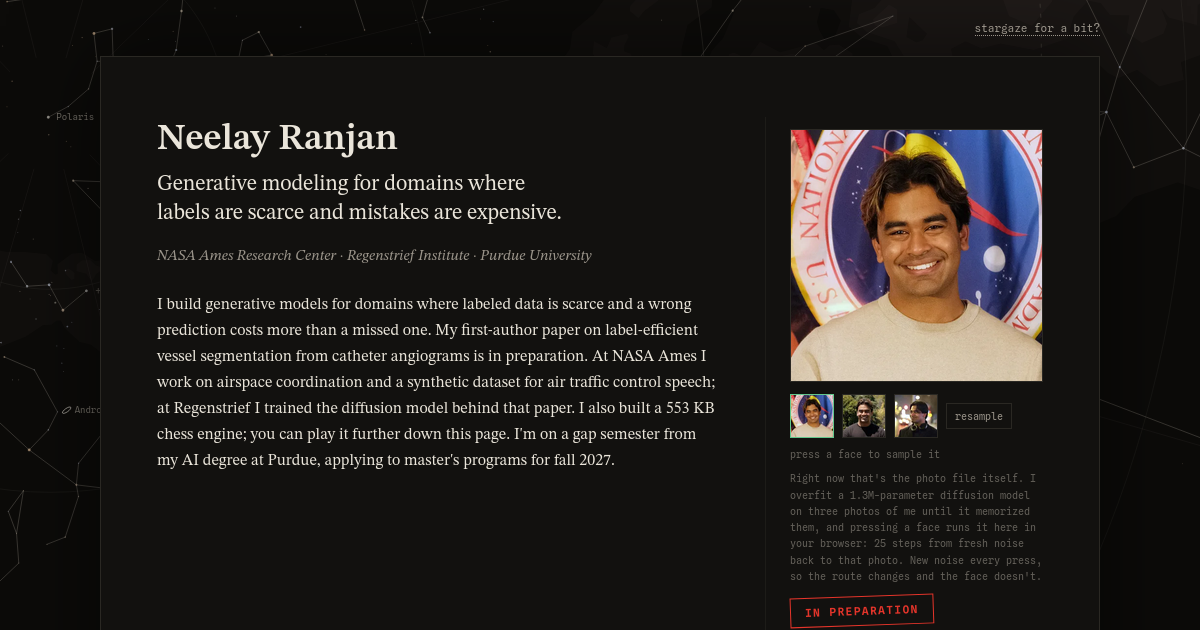
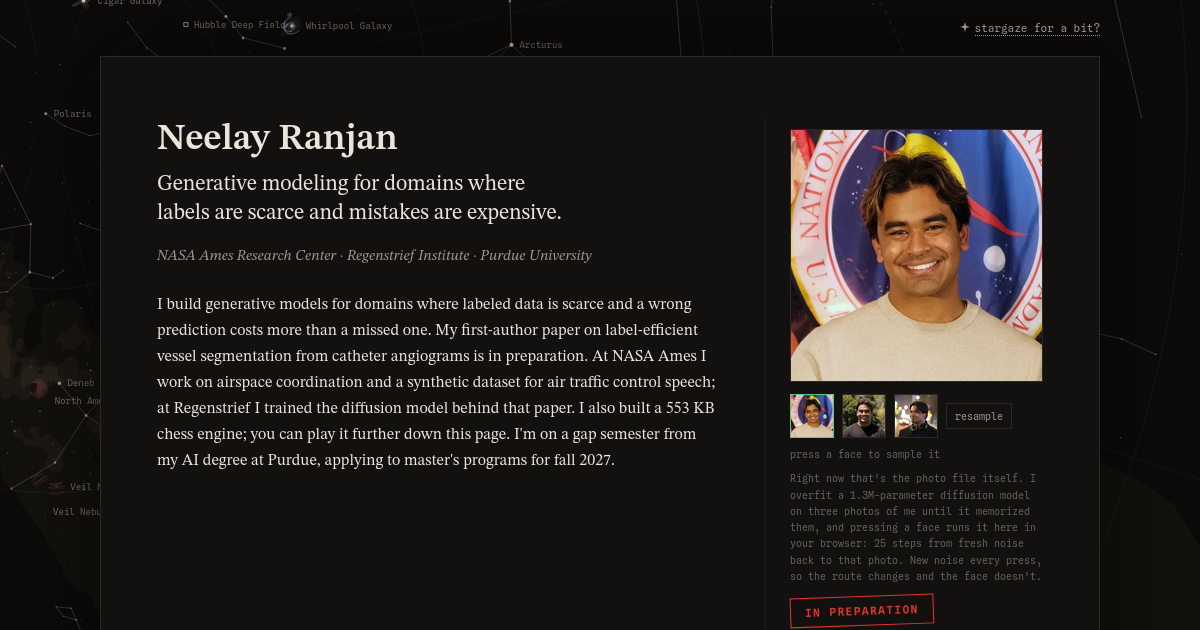
masthead: the door to /lab is a box that says what's behind it
The stamp stays as status (no longer a link); below it a bordered box
in the manuscript's own quiet-line style links to /lab and teases what's
there. References' existing supplementary-material entry is untouched.
Adds verify-redesign.mjs checks for the box's navigation, the stamp's
link-free ancestry (proven to bite by temporarily re-wrapping it), and
that References' /lab entry still resolves. OG card regenerated.

diff --git a/components/manuscript/Masthead.tsx b/components/manuscript/Masthead.tsx
@@ -24,13 +24,24 @@ export function Masthead() {
       rail={
         <div className="flex flex-col items-start gap-3">
           <HeadshotFigure />
-          {/* The stamp doubles as the way into /lab: the dotted-underlined
-              sub-line is the visible affordance, and the whole cluster is one
-              link so the hit target isn't a 10px line of text. */}
-          <Link href="/lab" className="group inline-block">
-            <Stamp>{t.stamp}</Stamp>
-            <span className="mt-1.5 block font-mono text-[10px] text-mut underline decoration-dotted underline-offset-[3px] transition-colors group-hover:text-red-ink group-hover:decoration-solid">
+          {/* The stamp is status only now (discoverability spec §6): no link
+              ancestor. The door into /lab is the bordered box below it, styled
+              like the manuscript's own figure frames (`border-rule`, corner
+              ticks aside) rather than a SaaS button. */}
+          <Stamp>{t.stamp}</Stamp>
+          <Link
+            href="/lab"
+            data-lab-box
+            className="group block w-full border border-rule px-3.5 py-3 transition-colors hover:border-mut focus-visible:border-mut"
+          >
+            <span className="flex items-baseline gap-1.5 font-mono text-[11px] font-semibold uppercase tracking-[0.1em] text-ink transition-colors group-hover:text-link group-focus-visible:text-link">
               {t.supplementLabel}
+              <span aria-hidden className="inline-block transition-transform group-hover:translate-x-0.5 group-focus-visible:translate-x-0.5">
+                &rarr;
+              </span>
+            </span>
+            <span className="mt-1.5 block text-[12.5px] leading-snug text-mut">
+              {t.supplementContents}
             </span>
           </Link>
           <span className="block font-mono text-[10px] font-semibold uppercase tracking-[0.12em] text-mut">

diff --git a/components/manuscript/Stamp.tsx b/components/manuscript/Stamp.tsx
@@ -14,7 +14,10 @@ import type { ReactNode } from "react";
  */
 export function Stamp({ children }: { children: ReactNode }) {
   return (
-    <span className="inline-block -rotate-2 border-[1.5px] border-red-ink px-3.5 py-[5px] font-mono text-[11px] font-semibold tracking-[0.14em] text-red-ink">
+    <span
+      data-stamp
+      className="inline-block -rotate-2 border-[1.5px] border-red-ink px-3.5 py-[5px] font-mono text-[11px] font-semibold tracking-[0.14em] text-red-ink"
+    >
       {children}
     </span>
   );
